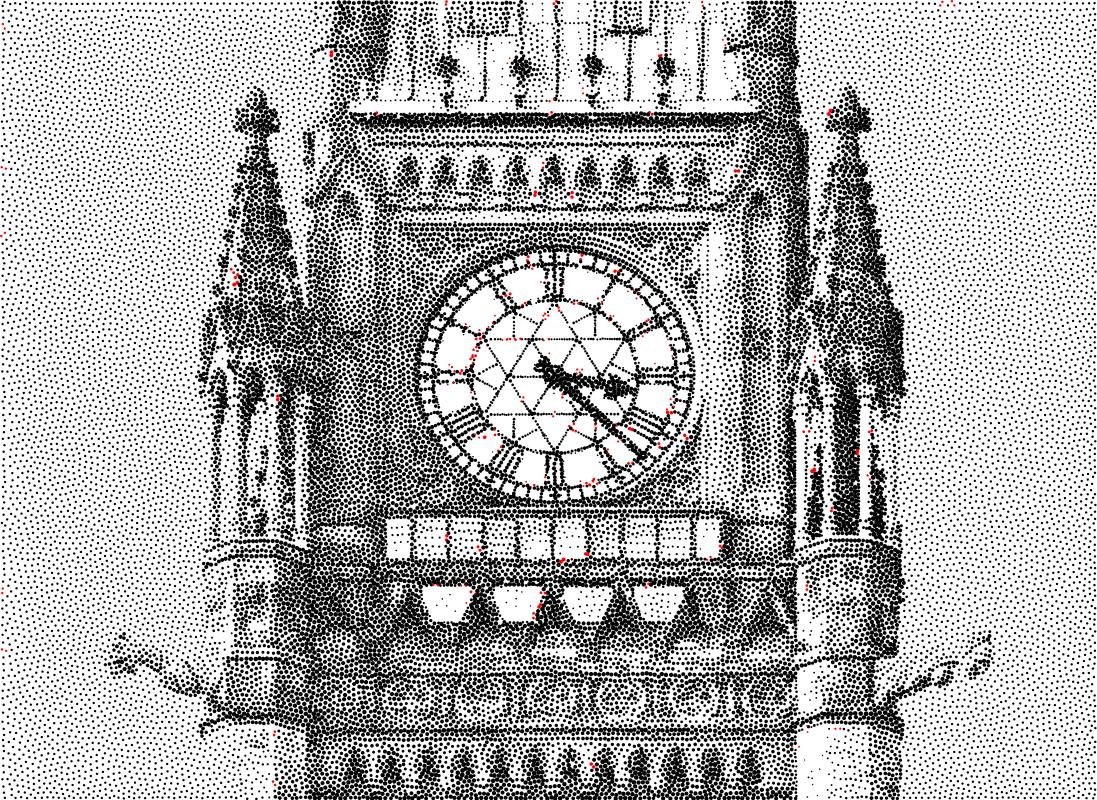
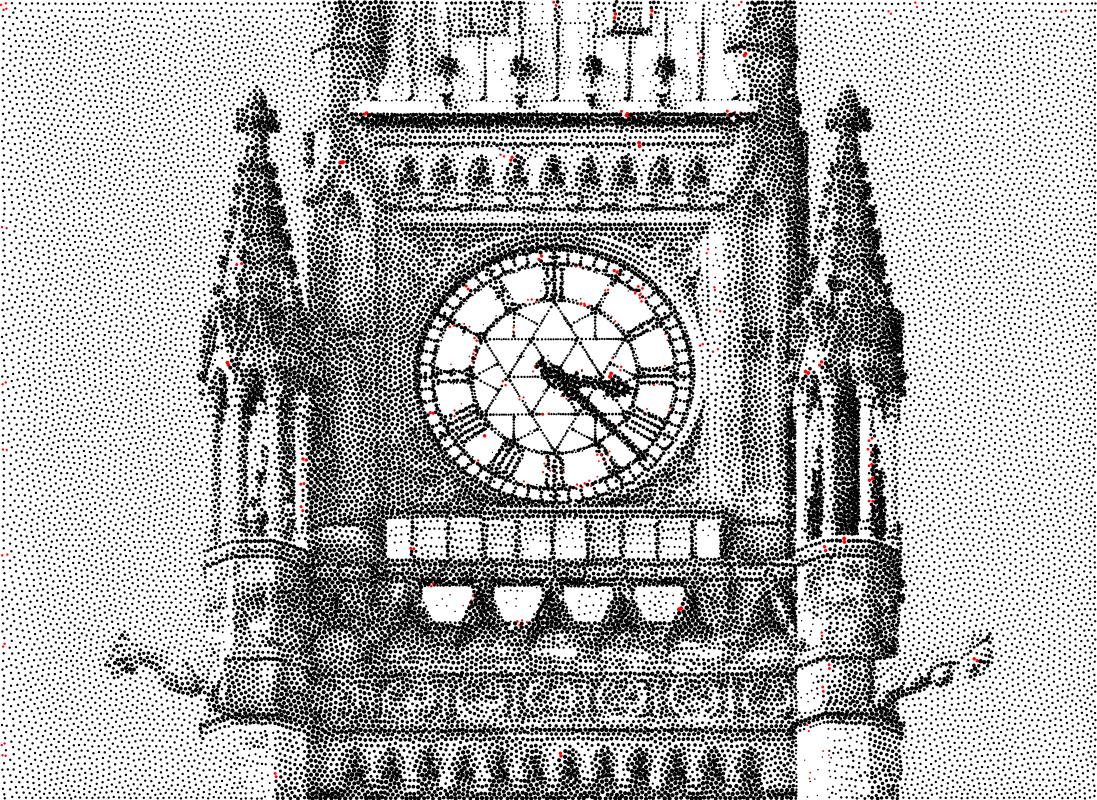
change stipple API

diff --git a/MLBG/src/stipple.cpp b/MLBG/src/stipple.cpp
@@ -6,9 +6,10 @@
 #include <vector>
 #include <random>
 
+using namespace std;
 using namespace Eigen;
 
-std::vector<Stipple> WLBG::init_stipples()
+pair<vector<Stipple>, vector<Stipple> > WLBG::init_stipples()
 {
     int init_num = settings.init_stipple_num;
     float init_size = settings.init_stipple_size;
@@ -17,12 +18,19 @@ std::vector<Stipple> WLBG::init_stipples()
     static std::mt19937 gen(rd());
 
     std::uniform_real_distribution<float> dis(0.01f, 0.99f);
-    std::vector<Stipple> stipples(init_num);
-    std::generate(stipples.begin(), stipples.end(), [&]() {
+    std::vector<Stipple> stipplesL1(init_num);
+    std::generate(stipplesL1.begin(), stipplesL1.end(), [&]() {
         return Stipple{Vector2f(dis(gen), dis(gen)), init_size,
                        Qt::black};
     });
-    return stipples;
+
+    std::vector<Stipple> stipplesL2(init_num);
+    std::generate(stipplesL2.begin(), stipplesL2.end(), [&]() {
+        return Stipple{Vector2f(dis(gen), dis(gen)), init_size,
+                       Qt::black};
+    });
+
+    return make_pair(stipplesL1, stipplesL2);
 }
 
 float WLBG::current_stipple_size(Cell cell)

diff --git a/MLBG/src/wlbg.h b/MLBG/src/wlbg.h
@@ -43,6 +43,8 @@ struct Stipple
     Eigen::Vector2f pos;
     float size;
     QColor color;
+    int layerId;
+    bool isShown;
 };
 
 struct Cell
@@ -68,7 +70,7 @@ public:
     void paint(Canvas *m_canvas, std::vector<Stipple> points, int iteration);
 
     // stipples
-    std::vector<Stipple> init_stipples();
+    std::pair<std::vector<Stipple>, std::vector<Stipple> > init_stipples();
     float current_stipple_size(Cell cell);
 
     // voronoi
